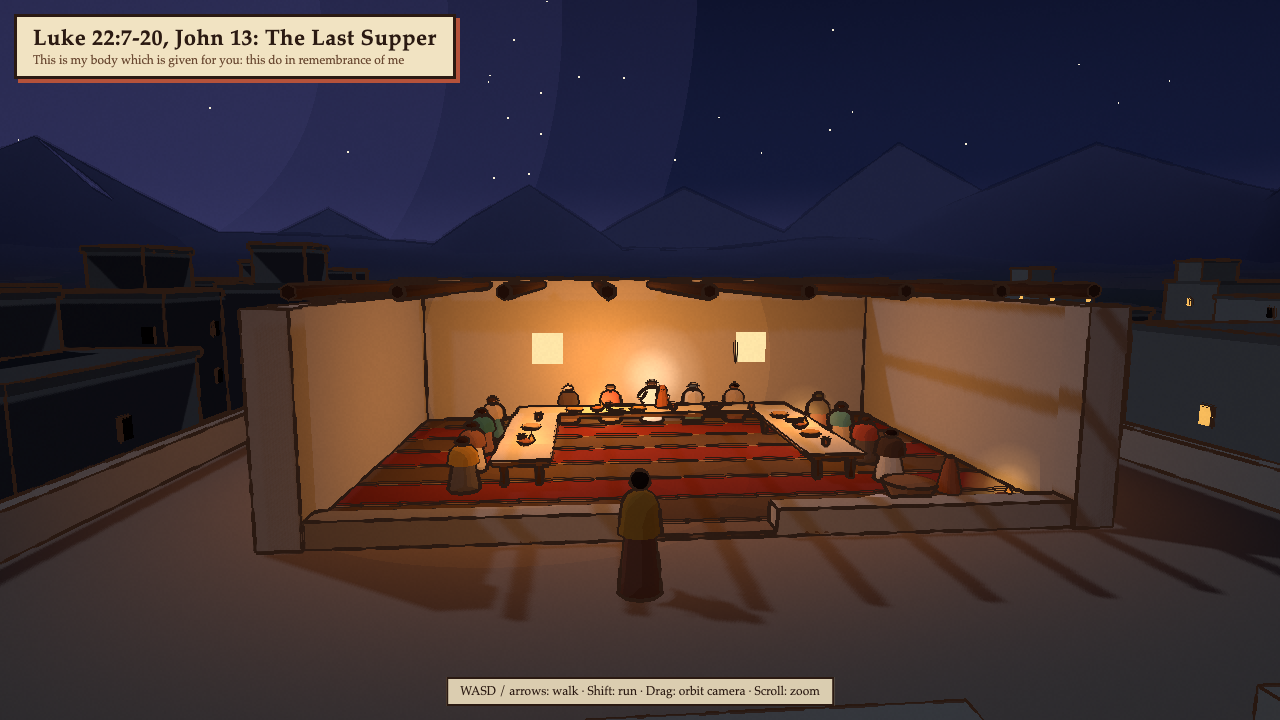
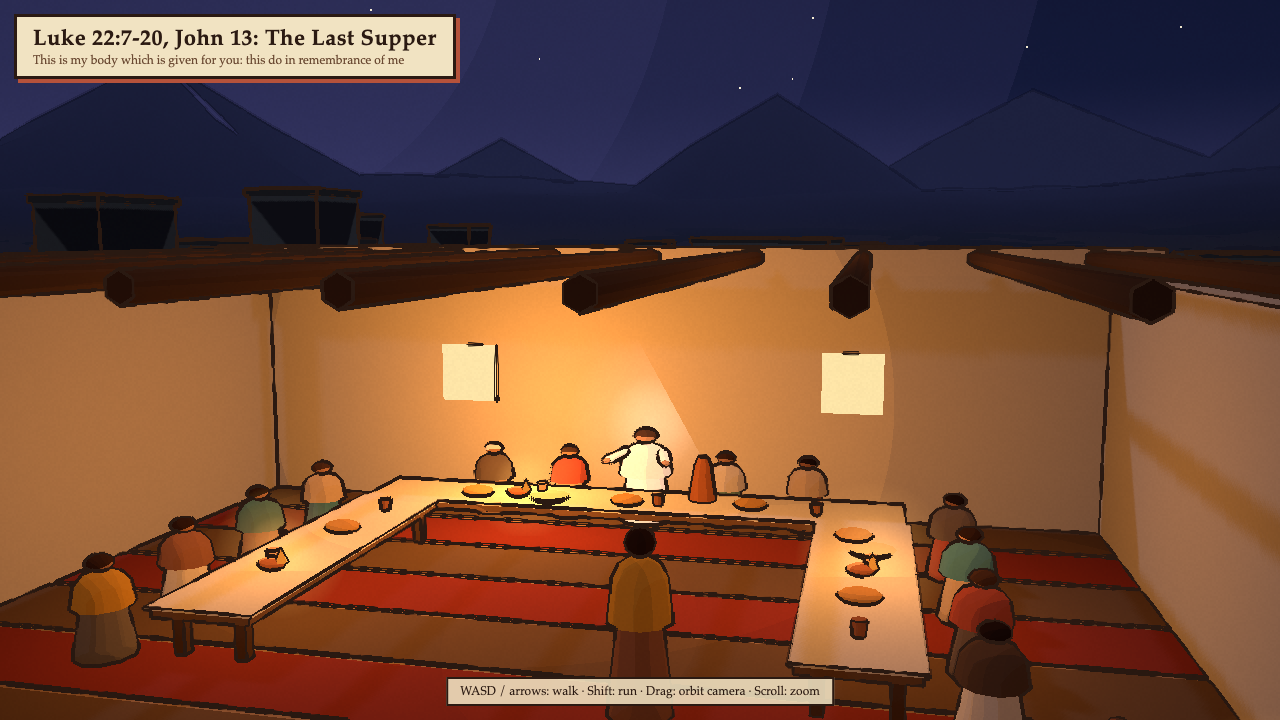
feat: polish toon scenes nt-19 to nt-24

diff --git a/styles/toon/scenes/nt-20.js b/styles/toon/scenes/nt-20.js
@@ -1,9 +1,9 @@
 // Matthew 21:1-11: Jesus rides into Jerusalem on a colt while the multitude spreads garments and palm branches in the way.
-// x is east, z is south. The road runs north from the Mount of Olives to the city gate at z = -110.
+// x is east, z is south. The road runs north from the Mount of Olives to the city gate at z = -78.
 import { Batch, DAY_STYLE, PALETTE, animal, box, city, glow, makeRng, olive, palm, palmWaver, person, temple, xf } from './lib/nt-19-kit.js';
 
 const JESUS = [0, -20];
-const GATE_Z = -110;
+const GATE_Z = -78;
 const CHRIST = { robe: '#fbf7ee', mantle: '#f3eddf', skin: '#b5825a', hair: '#4a3020', sash: '#e9dcc0' };
 
 function custom(ctx) {
@@ -11,8 +11,8 @@ function custom(ctx) {
   const b = new Batch(ctx);
   const rng = makeRng(20);
 
-  city(b, ctx, { wall: [[150, GATE_Z], [-150, GATE_Z]], gate: 150, depth: 70, count: 70, height: 9, seed: 21, towers: 7, skip: (x, z) => Math.abs(x - 40) < 50 && z < -150 });
-  temple(b, ctx, { pos: [40, -200], scale: 0.9 });
+  city(b, ctx, { wall: [[150, GATE_Z], [-150, GATE_Z]], gate: 150, depth: 70, count: 70, height: 9, seed: 21, towers: 7, skip: (x, z) => Math.abs(x - 26) < 50 && z < -150 });
+  temple(b, ctx, { pos: [26, -195], scale: 0.9 });
 
   // Garments and cut branches strewn on the road ahead of and behind the colt.
   const cloth = ['#b5523b', '#c8912e', '#4f7f80', '#6f8a6a', '#e6d8b8', '#8c5a3c', '#3e6e66', '#a64b35', '#d9c7a3', '#7a3a5a'];
@@ -28,11 +28,11 @@ function custom(ctx) {
     }
   }
 
-  for (let z = 30; z > -95; z -= 9 + rng() * 6) {
+  for (let z = 30; z > -66; z -= 9 + rng() * 6) {
     for (const s of [-1, 1]) palm(b, ctx, { pos: [s * (11 + rng() * 4), z], height: 8 + rng() * 3, lean: 0.1 + rng() * 0.2, dir: rng() * 6.28, seed: Math.floor(rng() * 999) });
   }
   for (let i = 0, n = 0; n < 90 && i < 600; i++) {
-    const x = (rng() - 0.5) * 220, z = -80 + rng() * 220;
+    const x = (rng() - 0.5) * 220, z = -70 + rng() * 210;
     if (Math.abs(x) < 18 || ctx.blocked(x, z, 1)) continue;
     olive(b, ctx, { pos: [x, z], size: 0.9 + rng() * 0.5, seed: i });
     n++;
@@ -40,7 +40,10 @@ function custom(ctx) {
 
   // The colt with its rider, and the disciples who brought it.
   animal(b, ctx, { kind: 'donkey', pos: JESUS, rot: Math.PI, color: '#7a6a5a' });
-  b.add('#b5523b', box(0.95, 0.5, 1.1, [JESUS[0], ctx.terrainHeight(...JESUS) + 1.2, JESUS[1] + 0.05]));
+  const back = ctx.terrainHeight(...JESUS) + 1.25;
+  b.add('#b5523b', box(0.9, 0.08, 1.0, [JESUS[0], back, JESUS[1] + 0.05]));
+  for (const sx of [-1, 1]) b.add('#b5523b', box(0.06, 0.5, 0.9, [JESUS[0] + sx * 0.45, back - 0.24, JESUS[1] + 0.05], [0, 0, sx * 0.12]));
+  b.add('#e0b040', box(0.92, 0.05, 0.12, [JESUS[0], back + 0.05, JESUS[1] - 0.4]));
   b.flush();
   const rider = person(ctx, { pos: [JESUS[0], JESUS[1] + 0.1], y: ctx.terrainHeight(...JESUS) + 1.1, kneel: true, face: [JESUS[0], JESUS[1] - 10], scale: 1.1, glow: 0.35, colors: { ...CHRIST, arms: [0.35, 0.7] } });
   rider.scale.y = 0.78;
@@ -93,18 +96,19 @@ export default {
     minSpacing: 0.66,
     facing: JESUS,
     colors: PALETTE,
-    aisles: [{ from: [0, 40], to: [0, -1], width: 2 }, { from: [0, -36], to: [0, -104], width: 6 }],
+    aisles: [{ from: [0, 40], to: [0, -1], width: 2 }, { from: [0, -36], to: [0, -74], width: 6 }],
     keepClear: [{ kind: 'circle', x: JESUS[0], z: JESUS[1], r: 2.4 }],
     groups: [
-      { shape: 'rect', center: [-6.5, -22], size: [5, 76], count: 330, children: 0.2, facingJitter: 0.7 },
-      { shape: 'rect', center: [6.5, -22], size: [5, 76], count: 330, children: 0.2, facingJitter: 0.7 },
-      { shape: 'rect', center: [0, -9], size: [5, 14], count: 50, children: 0.1, facing: [0, -120], facingJitter: 0.3 },
+      { shape: 'rect', center: [-6.5, -26], size: [5, 84], count: 330, children: 0.2, facingJitter: 0.7 },
+      { shape: 'rect', center: [6.5, -26], size: [5, 84], count: 330, children: 0.2, facingJitter: 0.7 },
+      { shape: 'rect', center: [0, -5], size: [5, 8], count: 30, children: 0.1, facing: [0, -120], facingJitter: 0.3 },
       { shape: 'rect', center: [0, 24], size: [6, 30], count: 60, children: 0.1, facing: [0, -120], facingJitter: 0.3 },
     ],
   },
   player: {
-    start: [-1.4, -26.5],
-    lookAt: [0.3, -19],
+    start: [1.7, -17.0],
+    lookAt: [-1.6, -70],
+    fov: 42,
     colors: { robe: '#8c5a3c', mantle: '#c8912e', skin: '#a8724a', hair: '#2b1a12', sash: '#4f7f80' },
   },
 };

diff --git a/styles/toon/scenes/nt-24.js b/styles/toon/scenes/nt-24.js
@@ -3,8 +3,8 @@
 import { Batch, DAY_STYLE, addSun, ball, box, cyl, cypress, glow, makeRng, olive, person } from './lib/nt-19-kit.js';
 
 const FACE_Z = -10;
-const JESUS = [-4.6, -3];
-const MARY = [1.6, -6.2];
+const JESUS = [-2.6, -4.4];
+const MARY = [1.3, -5.9];
 const CHRIST = { robe: '#fbf7ee', mantle: '#f3eddf', skin: '#b5825a', hair: '#4a3020', sash: '#e9dcc0' };
 const ANGEL = { robe: '#fbf7ee', mantle: '#ffffff', skin: '#fbf7ee', hair: '#fbf7ee' };
 
@@ -78,10 +78,10 @@ function custom(ctx) {
   b.flush();
 
   // Light within the empty tomb, and the two angels in white sitting where the body had lain.
-  const inner = new THREE.PointLight('#fff1c8', 12, 9, 1.2);
-  inner.position.set(0, y + 1.8, -11.6);
+  const inner = new THREE.PointLight('#fff1c8', 10, 3.4, 1.2);
+  inner.position.set(0, y + 1.6, -12.7);
   ctx.scene.add(inner);
-  glow(ctx, { pos: [0, y + 1.3, FACE_Z - 0.4], size: 4.5, color: '#fff0c8', opacity: 0.55 });
+  glow(ctx, { pos: [0, y + 1.2, FACE_Z - 0.6], size: 3.2, color: '#fff0c8', opacity: 0.45 });
   for (const z of [-11.3, -13.5]) {
     person(ctx, { pos: [0.2, z], y: y + 0.35, kneel: true, glow: 0.7, face: [0.2, z + 3], colors: ANGEL });
     glow(ctx, { pos: [0.2, y + 1.3, z], size: 2.6, color: '#fff6dc', opacity: 0.6 });
@@ -91,7 +91,7 @@ function custom(ctx) {
   const mary = person(ctx, { pos: MARY, face: JESUS, colors: { robe: '#7a3a5a', mantle: '#b5523b', skin: '#b5825a', hair: '#4a3020', arms: [0.35, 0.9] } });
   mary.rotation.x = 0.1;
   person(ctx, { pos: JESUS, face: MARY, scale: 1.08, glow: 0.4, colors: { ...CHRIST, arms: [0.45, 0.35] } });
-  glow(ctx, { pos: [JESUS[0], ctx.terrainHeight(...JESUS) + 1.2, JESUS[1]], size: 5, color: '#fff3d0', opacity: 0.5 });
+  glow(ctx, { pos: [JESUS[0], ctx.terrainHeight(...JESUS) + 1.1, JESUS[1] - 0.3], size: 3.4, color: '#fff3d0', opacity: 0.4 });
 
   addSun(ctx, { dir: [1, 0.12, 0.15], size: 50, color: '#fff2d0', halo: '#ffc890' });
 }
@@ -102,7 +102,7 @@ export default {
   seed: 24,
   style: { ...DAY_STYLE, fog: { color: '#e8c8b4', near: 90, far: 700 } },
   sky: { zenith: '#3a5a8a', mid: '#b896a8', horizon: '#ffcf9a', ground: '#c8a88a', glowColor: '#ffd8a0', glowDir: [1, 0.12, 0.15] },
-  sun: { dir: [0.85, 0.35, 0.3], color: '#ffd8b0', intensity: 2.2, hemi: { sky: '#c8c8e0', ground: '#8a6a5a', intensity: 1.0 }, shadowSize: 60 },
+  sun: { dir: [0.75, 0.4, 0.55], color: '#ffd8b0', intensity: 2.2, hemi: { sky: '#c8c8e0', ground: '#8a6a5a', intensity: 1.0 }, shadowSize: 60 },
   ground: {
     size: 1000, segments: 220, flatRadius: 120, hillHeight: 35, undulation: 0.2,
     plaza: { center: [0, 900], size: [1, 1] },
@@ -115,8 +115,9 @@ export default {
   custom,
   clouds: { layers: [{ count: 22, distance: [350, 750], height: [80, 180], size: [40, 80], color: '#ffd8c0', shade: '#8a6a8a' }] },
   player: {
-    start: [1.6, 1.5],
-    lookAt: [-0.8, -9],
+    start: [1.0, 0.2],
+    lookAt: [-0.6, -9],
+    fov: 44,
     colors: { robe: '#8c5a3c', mantle: '#c8912e', skin: '#a8724a', hair: '#2b1a12', sash: '#4f7f80' },
   },
 };

diff --git a/styles/toon/scenes/nt-21.js b/styles/toon/scenes/nt-21.js
@@ -70,10 +70,10 @@ function custom(ctx) {
 
   // Bread, cups and a wine jug on the cloth.
   const ty = fy + T + 0.08;
-  for (const [x, z] of [[-0.5, -10.7], [1.6, -10.8], [-2.2, -10.7], [-3.2, -8.6], [3.2, -7.4], [3.1, -9.6]]) b.add('#c8914a', ball(0.18, [x, ty + 0.04, z], [1.3, 0.45, 1]));
+  for (const [x, z] of [[0, -10.65], [1.7, -10.8], [-2.2, -10.7], [-3.2, -8.6], [3.2, -7.4], [3.1, -9.6]]) b.add('#c8914a', ball(0.18, [x, ty + 0.04, z], [1.3, 0.45, 1]));
   for (const [x, z] of [[0.45, -10.6], [-1.3, -10.9], [2.6, -10.6], [-3.3, -7.2], [-3.1, -9.6], [3.3, -8.4], [3.2, -6.4]]) b.add('#a0603a', cyl(0.08, 0.06, 0.16, [x, ty + 0.08, z], [0, 0, 0], 8));
-  b.add('#b5683b', cyl(0.12, 0.2, 0.5, [0.2, ty + 0.25, -11.05], [0, 0, 0], 9));
-  b.add('#b5683b', cyl(0.07, 0.12, 0.12, [0.2, ty + 0.55, -11.05], [0, 0, 0], 8));
+  b.add('#b5683b', cyl(0.12, 0.2, 0.5, [1.0, ty + 0.25, -11.05], [0, 0, 0], 9));
+  b.add('#b5683b', cyl(0.07, 0.12, 0.12, [1.0, ty + 0.55, -11.05], [0, 0, 0], 8));
   for (const [x, z] of [[-1.1, -10.6], [3.3, -9.0]]) b.add('#d8c095', cyl(0.3, 0.22, 0.05, [x, ty + 0.03, z], [0, 0, 0], 12));
 
   // Basin, pitcher and towel by the entrance (John 13:4-5).
@@ -94,7 +94,7 @@ function custom(ctx) {
     n++;
   }
 
-  lamp(b, ctx, { pos: [-1.6, -10.7], y: ty, light: { color: '#ffb060', intensity: 9, distance: 14 } });
+  lamp(b, ctx, { pos: [-1.6, -10.7], y: ty, light: { color: '#ffb060', intensity: 12, distance: 14 } });
   lamp(b, ctx, { pos: [3.2, -8.2], y: ty, light: { color: '#ffb060', intensity: 6, distance: 10 } });
   lamp(b, ctx, { pos: [-3.2, -7.0], y: ty, light: { color: '#ffb060', intensity: 6, distance: 10 } });
   lamp(b, ctx, { pos: [5.8, -4.2], y: fy + 0.05, light: null });
@@ -105,8 +105,8 @@ function custom(ctx) {
 
   // Jesus at the head of the table, the Twelve seated round it.
   const center = [0, -8.6];
-  person(ctx, { pos: [0, -11.9], y: fy, kneel: true, scale: 1.1, glow: 0.3, face: center, colors: { ...CHRIST, arms: [0.3, 1.2] } });
-  glow(ctx, { pos: [0, fy + 1.3, -11.9], size: 3.2, color: '#fff3d0', opacity: 0.5 });
+  person(ctx, { pos: [0, -11.9], y: fy, kneel: true, scale: 1.3, glow: 0.35, face: center, colors: { ...CHRIST, arms: [0.25, 1.5] } });
+  glow(ctx, { pos: [0, fy + 1.4, -12.4], size: 2.6, color: '#fff3d0', opacity: 0.35 });
   const seats = [[-2.4, -11.9], [-1.2, -11.95], [1.2, -11.95], [2.4, -11.9], [-4.3, -10.1], [-4.35, -8.6], [-4.35, -7.1], [-4.3, -5.7], [4.3, -10.1], [4.35, -8.6], [4.35, -7.1], [4.3, -5.7]];
   seats.forEach((p, i) => person(ctx, { pos: p, y: fy, kneel: true, face: [p[0] * 0.3, -9], colors: TWELVE[i] }));
 }
@@ -127,8 +127,9 @@ export default {
   objects: [],
   custom,
   player: {
-    start: [-1.2, -1.2],
-    lookAt: [-0.5, -10],
+    start: [1.3, -5.6],
+    lookAt: [0, -11.5],
+    fov: 38,
     colors: { robe: '#8c5a3c', mantle: '#c8912e', skin: '#a8724a', hair: '#2b1a12', sash: '#4f7f80' },
   },
 };

diff --git a/styles/toon/scenes/nt-22.js b/styles/toon/scenes/nt-22.js
@@ -1,6 +1,6 @@
 // Luke 22:39-46: Jesus prays alone in the olive garden at night, an angel strengthening him, while Peter, James and John sleep.
 // x is east, z is south. Jerusalem lies north across the Kidron, the garden on the slope of the Mount of Olives.
-import { Batch, DAY_STYLE, angels, ball, city, flames, glow, makeRng, moon, olive, person, sleeper, stars, temple } from './lib/nt-19-kit.js';
+import { Batch, DAY_STYLE, ball, city, flames, glow, makeRng, moon, olive, person, sleeper, stars, temple } from './lib/nt-19-kit.js';
 
 const JESUS = [0, -12];
 const ROCK = [0, -13.6];
@@ -60,8 +60,24 @@ function custom(ctx) {
 
   // Jesus kneeling, the angel above him, the three asleep.
   person(ctx, { pos: JESUS, kneel: true, scale: 1.1, glow: 0.35, face: [ROCK[0], ROCK[1] - 5], colors: { ...CHRIST, arms: [0.25, 1.6] } }).rotation.x = 0.18;
-  glow(ctx, { pos: [JESUS[0], gy + 1.1, JESUS[1]], size: 4.5, color: '#fff0c8', opacity: 0.55 });
-  angels(ctx, [{ pos: [1.5, gy + 0.9, JESUS[1] - 0.9], face: JESUS, scale: 1.05 }], { glowSize: 6, glowOpacity: 0.6, light: { color: "#fff1c8", intensity: 14, distance: 14, pos: [0.8, gy + 3, JESUS[1] + 0.5] } });
+  glow(ctx, { pos: [JESUS[0], gy + 0.9, JESUS[1]], size: 3, color: '#fff0c8', opacity: 0.4 });
+  // The angel hovers just above and before him, leaning down with open arms.
+  const ANGEL = [1.3, gy + 3.4, JESUS[1] - 0.2];
+  const white = '#fbf7ee';
+  const angel = person(ctx, { pos: [ANGEL[0], ANGEL[2]], y: ANGEL[1], face: JESUS, glow: 0.7, colors: { robe: white, mantle: white, skin: white, hair: white, arms: [0.7, 0.9] } });
+  angel.rotation.order = 'YXZ';
+  angel.rotation.x = 0.2;
+  const halo = glow(ctx, { pos: [ANGEL[0], ANGEL[1] + 0.9, ANGEL[2]], size: 3.6, color: '#fff1c8', opacity: 0.5, pulse: 0.06 });
+  const beam = glow(ctx, { pos: [0.6, gy + 2.2, JESUS[1] - 0.1], size: 1, color: '#fff1c8', opacity: 0.3, pulse: 0 });
+  beam.scale.set(1.6, 4.4, 1);
+  ctx.onFrame((t) => {
+    const lift = Math.sin(t * 0.8) * 0.1;
+    angel.position.y = ANGEL[1] + lift;
+    halo.position.y = ANGEL[1] + 0.9 + lift;
+  });
+  const light = new ctx.THREE.PointLight('#fff1c8', 16, 14, 1.2);
+  light.position.set(ANGEL[0], ANGEL[1] + 1.5, ANGEL[2] + 1);
+  ctx.scene.add(light);
   for (const s of SLEEPERS) sleeper(ctx, s);
   // The other eight, farther back by the gate.
   const rest = [[-8, 18], [-6, 19.5], [-4.2, 18.4], [5, 18.8], [7, 19.6], [8.6, 17.8], [-10, 16.6], [10.4, 16.4]];
@@ -85,8 +101,9 @@ export default {
   custom,
   clouds: { layers: [{ count: 14, distance: [350, 700], height: [100, 200], size: [40, 80], color: '#4a5272', shade: '#1a1e30' }] },
   player: {
-    start: [-1.2, 0.5],
-    lookAt: [0, -12],
+    start: [-1.4, -5.2],
+    lookAt: [0.4, -12.5],
+    fov: 48,
     colors: { robe: '#8c5a3c', mantle: '#c8912e', skin: '#a8724a', hair: '#2b1a12', sash: '#4f7f80' },
   },
 };

diff --git a/styles/toon/scenes/nt-23.js b/styles/toon/scenes/nt-23.js
@@ -42,11 +42,11 @@ function custom(ctx) {
       b.add('#3a2a20', box(0.7, 0.05, 0.07, [x, base + height - 0.05, z + 0.17]));
     }
   });
-  glow(ctx, { pos: [0, knollTop + 4, -19.6], size: 5, color: '#fff0d0', opacity: 0.35, pulse: 0.02 });
+  glow(ctx, { pos: [0, knollTop + 3.6, -20.4], size: 4.2, color: '#fff0d0', opacity: 0.3, pulse: 0.02 });
 
   // The city wall behind, with its gate, and the temple beyond.
-  city(b, ctx, { wall: [[160, -105], [-160, -105]], gate: 190, depth: 70, count: 60, height: 10, seed: 24, towers: 8, wallColor: '#a89478', colors: ['#a08a70', '#968068', '#ae9a7c'], skip: (x, z) => Math.abs(x - 40) < 50 && z < -140 });
-  temple(b, ctx, { pos: [40, -180], scale: 0.85 });
+  city(b, ctx, { wall: [[160, -105], [-160, -105]], gate: 190, depth: 70, count: 60, height: 10, seed: 24, towers: 8, wallColor: '#a89478', colors: ['#a08a70', '#968068', '#ae9a7c'], skip: (x, z) => Math.abs(x + 75) < 50 && z < -140 });
+  temple(b, ctx, { pos: [-75, -180], scale: 0.85 });
   // A road out of the gate past the knoll.
   for (let z = -102; z < 40; z += 2.5) b.add('#9a8670', box(4.5, 0.04, 2.4, [-30 + z * 0.08, ctx.terrainHeight(-30 + z * 0.08, z) + 0.02, z], [0, 0.08, 0]), { cast: false });
 
@@ -69,8 +69,8 @@ export default {
   subtitle: 'There was a darkness over all the earth. It is finished',
   seed: 23,
   style: { ...DAY_STYLE, fog: { color: '#3a3032', near: 70, far: 520 } },
-  sky: { zenith: '#16121a', mid: '#2e2428', horizon: '#5e463a', ground: '#2a2220', glowColor: '#8a5a3a', glowDir: [-0.3, 0.08, -1] },
-  sun: { dir: [-0.3, 0.75, -0.5], color: '#c8a890', intensity: 0.9, hemi: { sky: '#6a5a62', ground: '#3a2a24', intensity: 0.85 }, shadowSize: 60 },
+  sky: { zenith: '#1a1520', mid: '#3a2e32', horizon: '#8a6448', ground: '#2a2220', glowColor: '#c08a5a', glowDir: [0, 0.1, -1] },
+  sun: { dir: [-0.2, 0.7, 0.5], color: '#d8b898', intensity: 1.05, hemi: { sky: '#7a6a70', ground: '#4a3a30', intensity: 1.0 }, shadowSize: 60 },
   ground: {
     size: 1000, segments: 200, flatRadius: 140, hillHeight: 35, undulation: 0.3,
     plaza: { center: [0, 900], size: [1, 1] },
@@ -101,8 +101,9 @@ export default {
     ],
   },
   player: {
-    start: [-0.8, -7.5],
+    start: [-0.6, -9.6],
     lookAt: [0, -21],
+    fov: 44,
     colors: { robe: '#8c5a3c', mantle: '#c8912e', skin: '#a8724a', hair: '#2b1a12', sash: '#4f7f80' },
   },
 };

diff --git a/styles/toon/scenes/nt-19.js b/styles/toon/scenes/nt-19.js
@@ -88,8 +88,9 @@ export default {
     ],
   },
   player: {
-    start: [0.3, -4],
-    lookAt: [TREE[0] - 1, TREE[1]],
+    start: [-0.6, -6.8],
+    lookAt: [TREE[0] - 2, TREE[1] + 0.5],
+    fov: 44,
     colors: { robe: '#8c5a3c', mantle: '#c8912e', skin: '#a8724a', hair: '#2b1a12', sash: '#4f7f80' },
   },
 };
